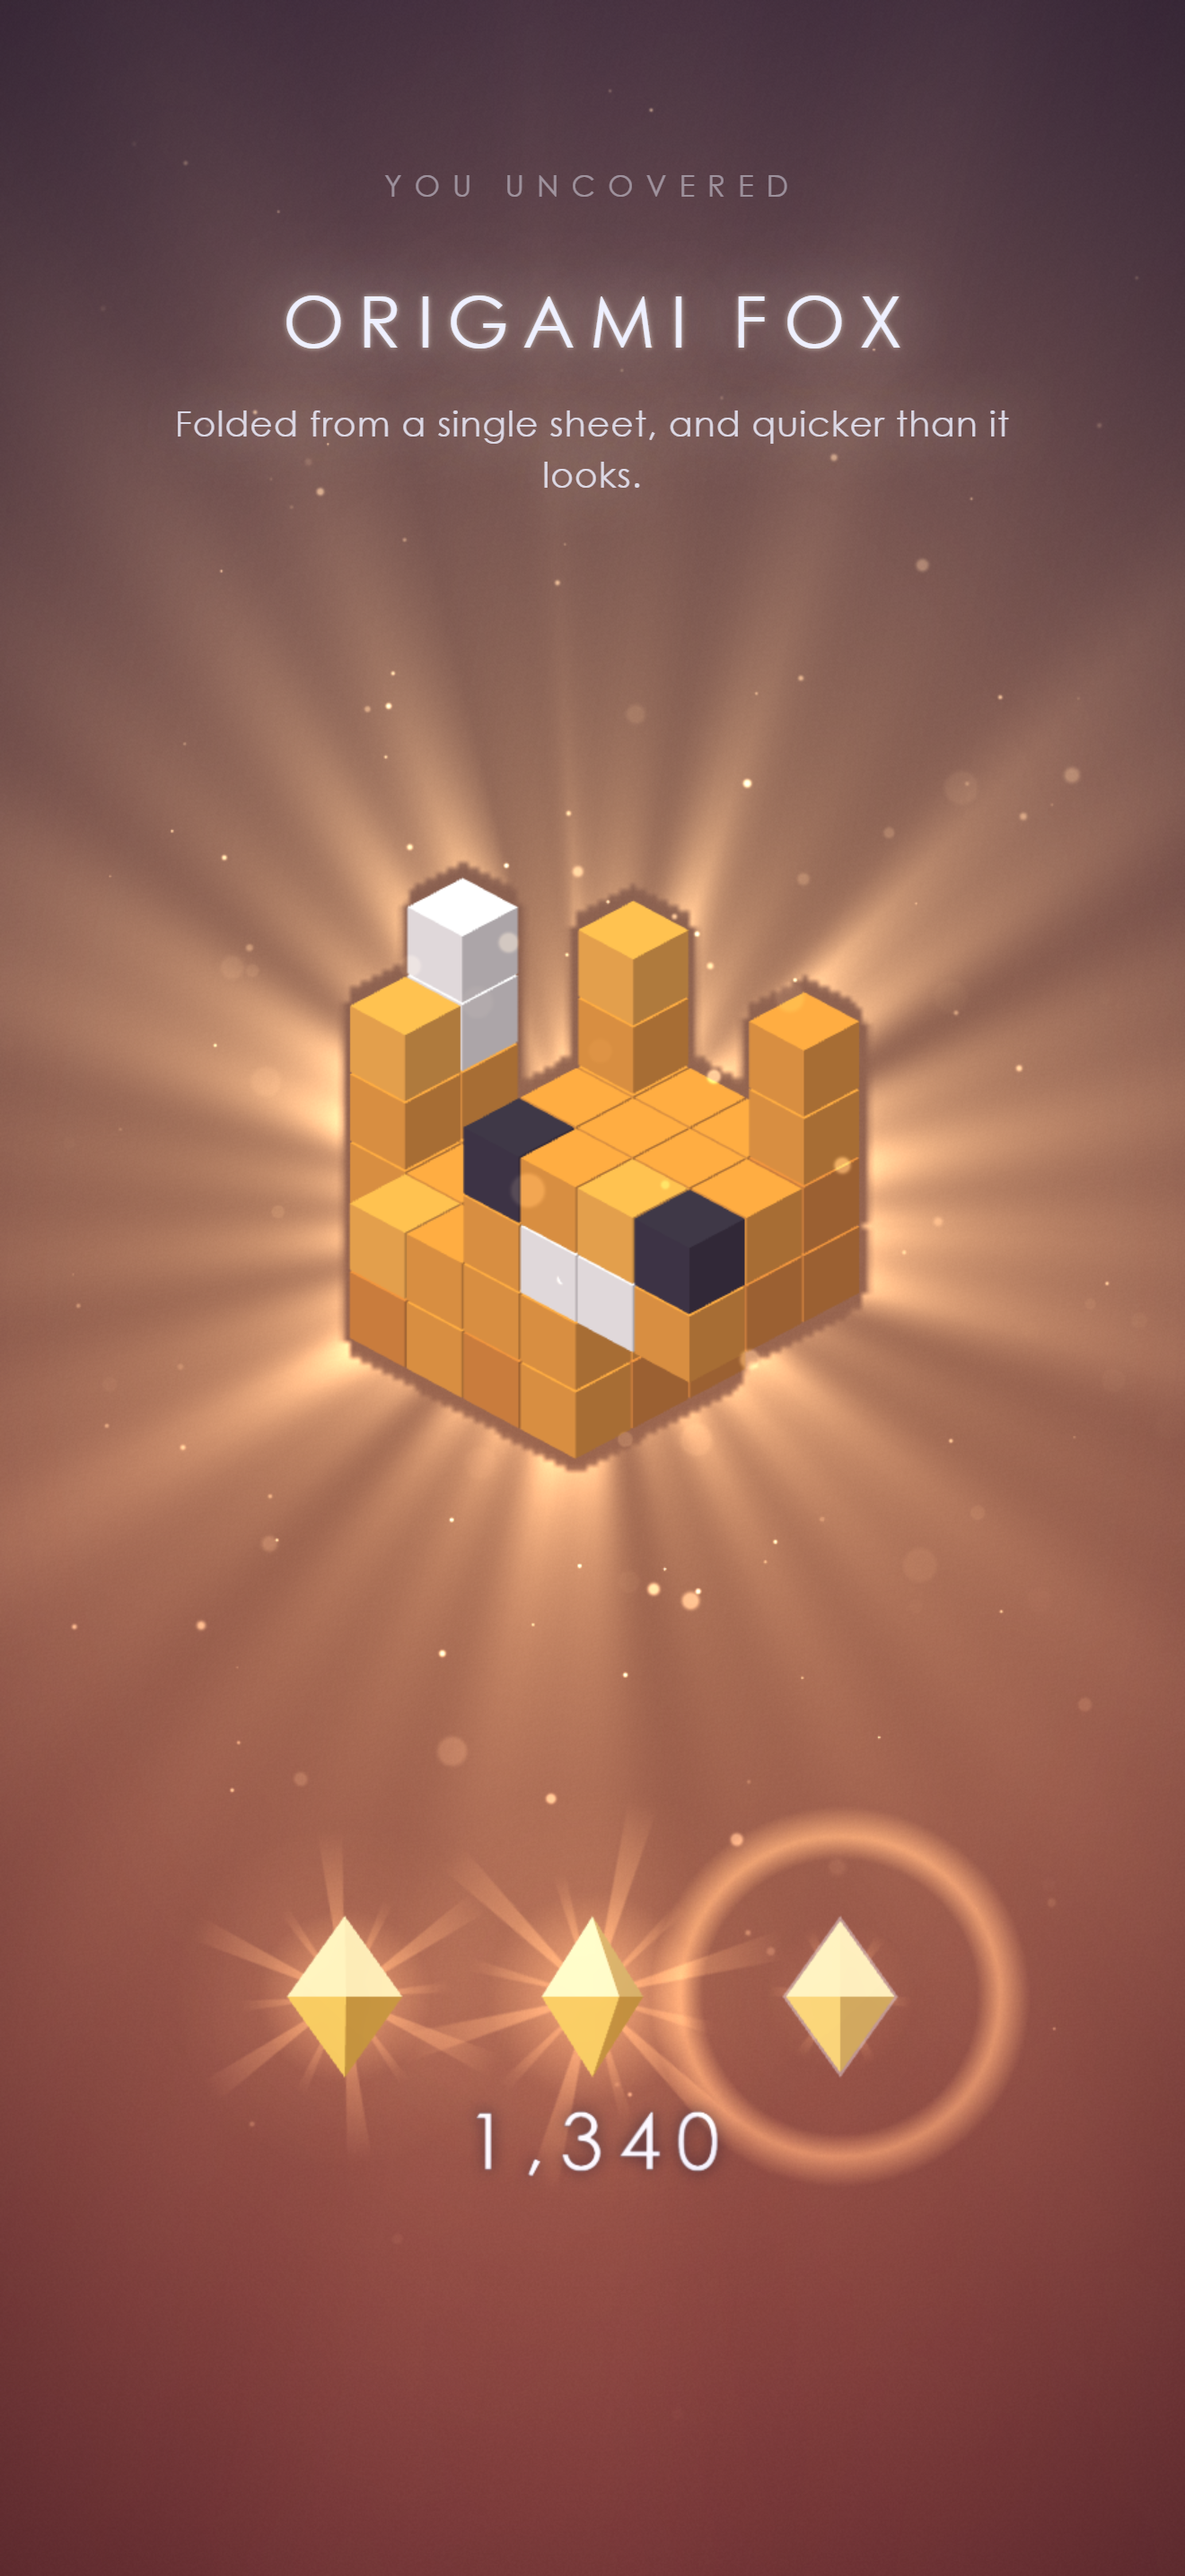
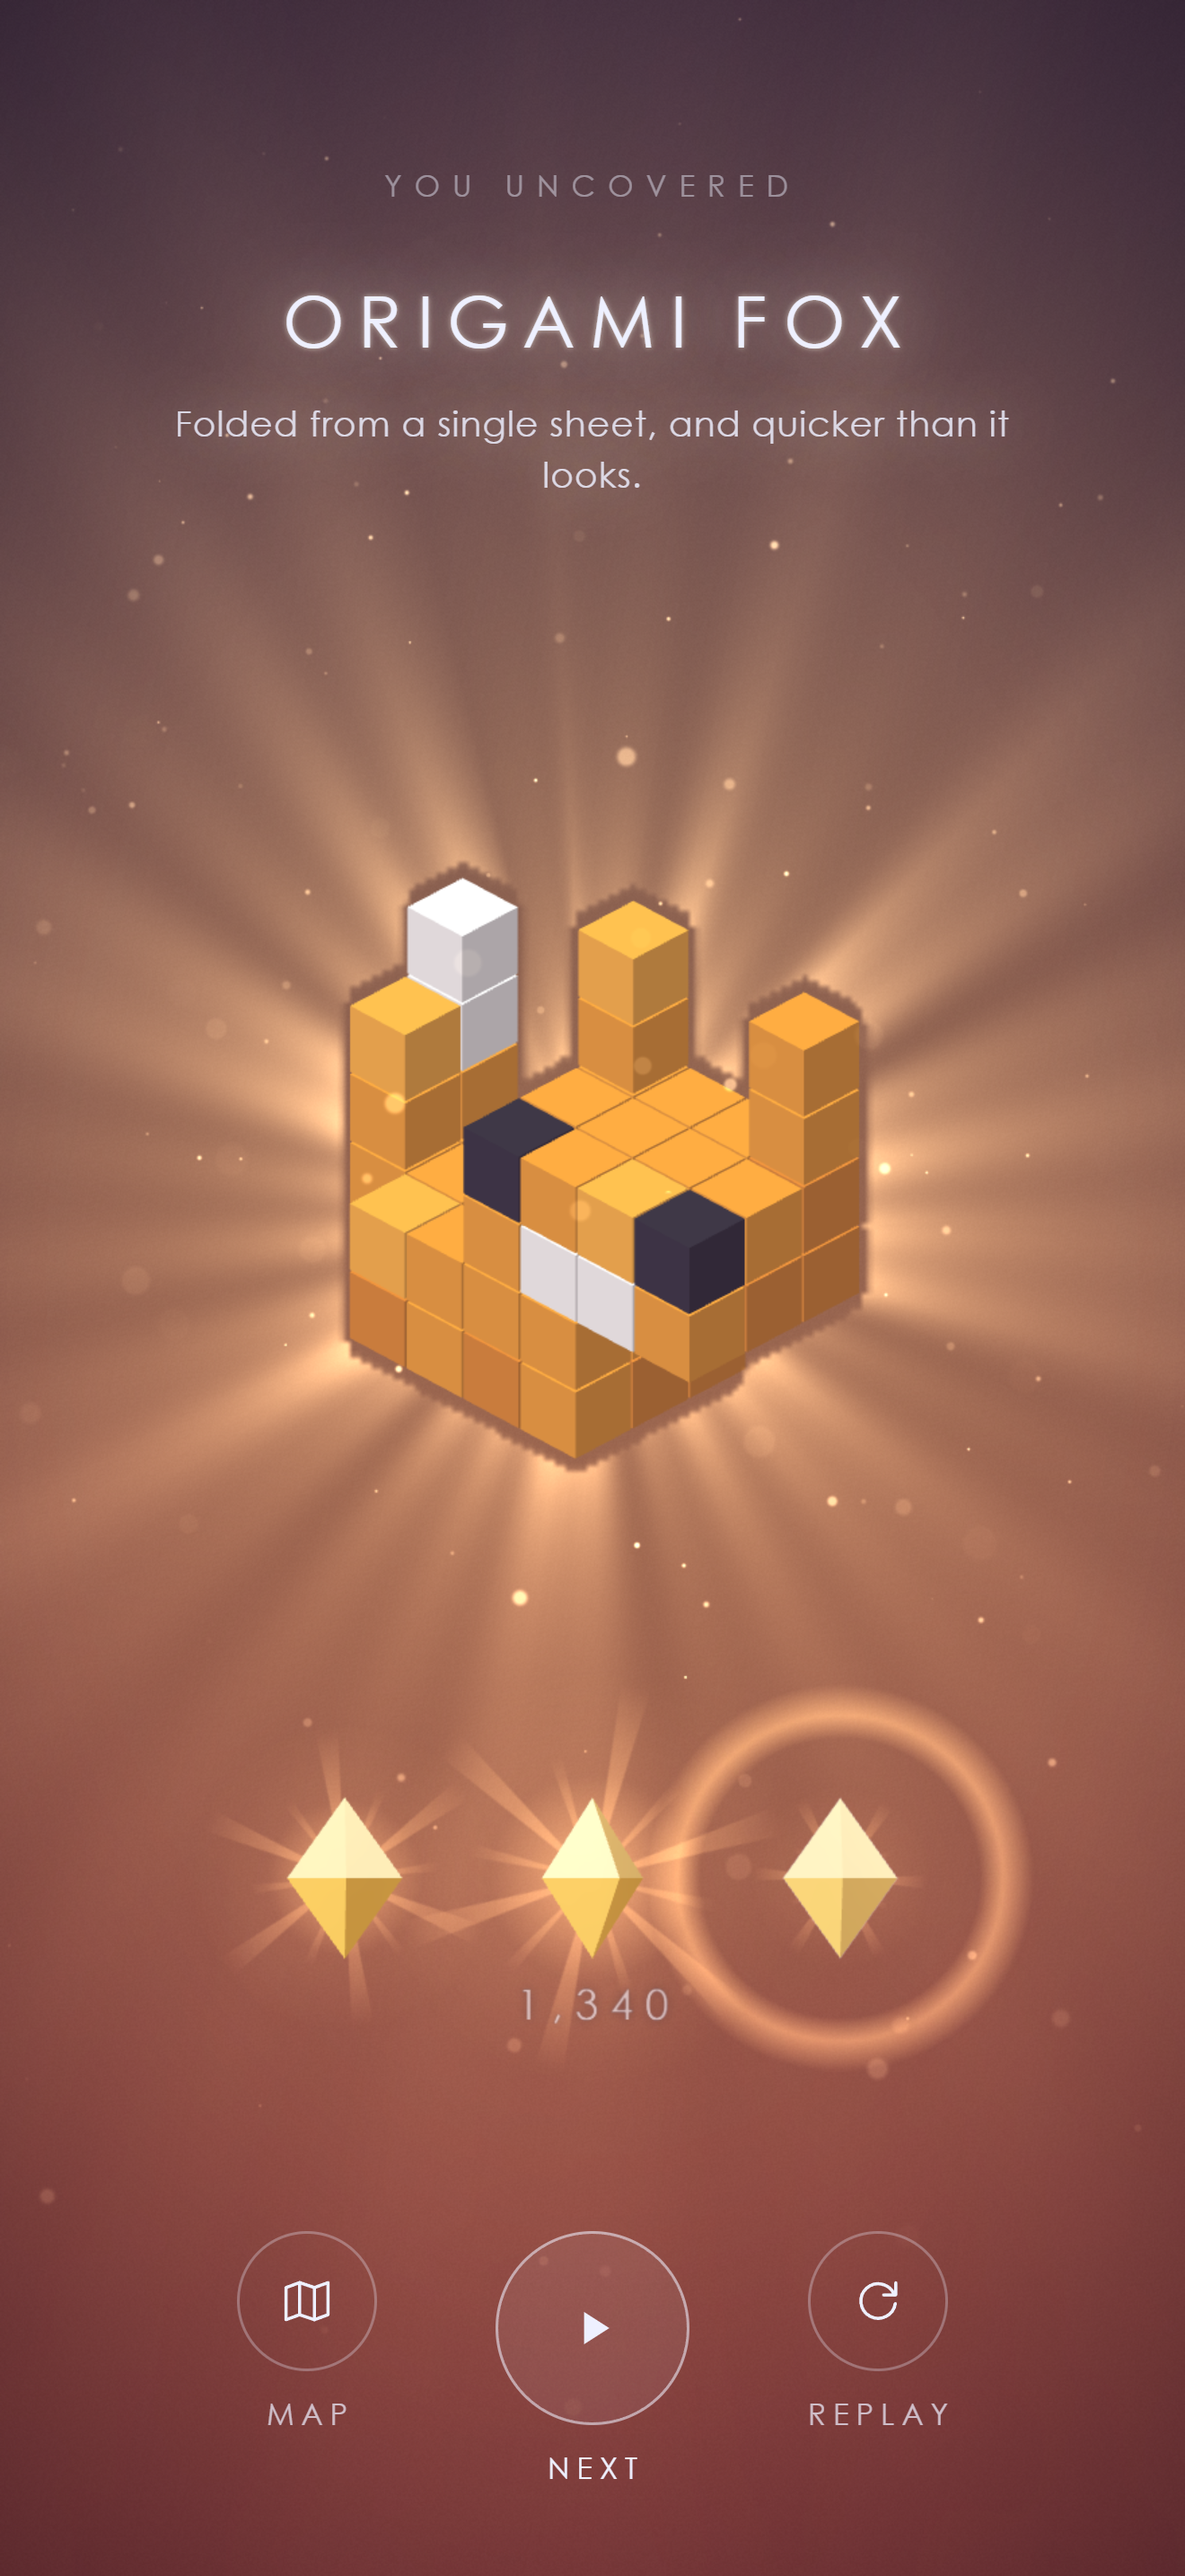
store: the five screenshots reshot at both sizes with today's UI (Kellan, 2026-10-29) - the result's rings and quieter score, the thin-ring buttons and outline tool pill with the chisel and chalk, single-gold gems, and Autumn Woods' new sky; same names and order. Not uploaded to App Store Connect
Claude-Session: https://claude.ai/code/session_01RJB5cDdXvcLAwaz3VUAMoh

diff --git a/docs/handoff-2026-10-29-store-and-builds.md b/docs/handoff-2026-10-29-store-and-builds.md
@@ -72,7 +72,9 @@ Suggested TestFlight "What to Test":
    | 4 | Maple Bonsai mid-solve | Autumn Woods | **Changed:** now plum over amber, was cream over rust |
    | 5 | Coelacanth | The Deep | Sky unchanged |
 
-   Re-shoot #4 with `store/shoot.mjs` at both sizes (6.9" and 6.5"), and check #1 to #5 against the live app before the next submission. The block colours didn't change; only the skies did. Show Kellan before replacing anything on the store.
+   Re-shoot #4 with `store/shoot.mjs` at both sizes (6.9" and 6.5"), and check #1 to #5 against the live app before the next submission.
+
+   **Done, 2026-10-29:** all five reshot at both sizes with the current UI (thin-ring buttons, the outline tool pill with the chisel and chalk, the quieter score with Map · Next · Replay rings, single-gold gems) and the current skies, in `store/screenshots/` under the same names. Not yet uploaded to App Store Connect: that is Kellan's. The block colours didn't change; only the skies did. Show Kellan before replacing anything on the store.
 
 2. **App preview video.** Still not made. It would come from `tools/trailer/v5` (the `preview` cut), but those files are Kellan's uncommitted edits, so ask before touching them. Any existing trailer footage shows the **old** opening (the glowing cube and the old splash card).
 
